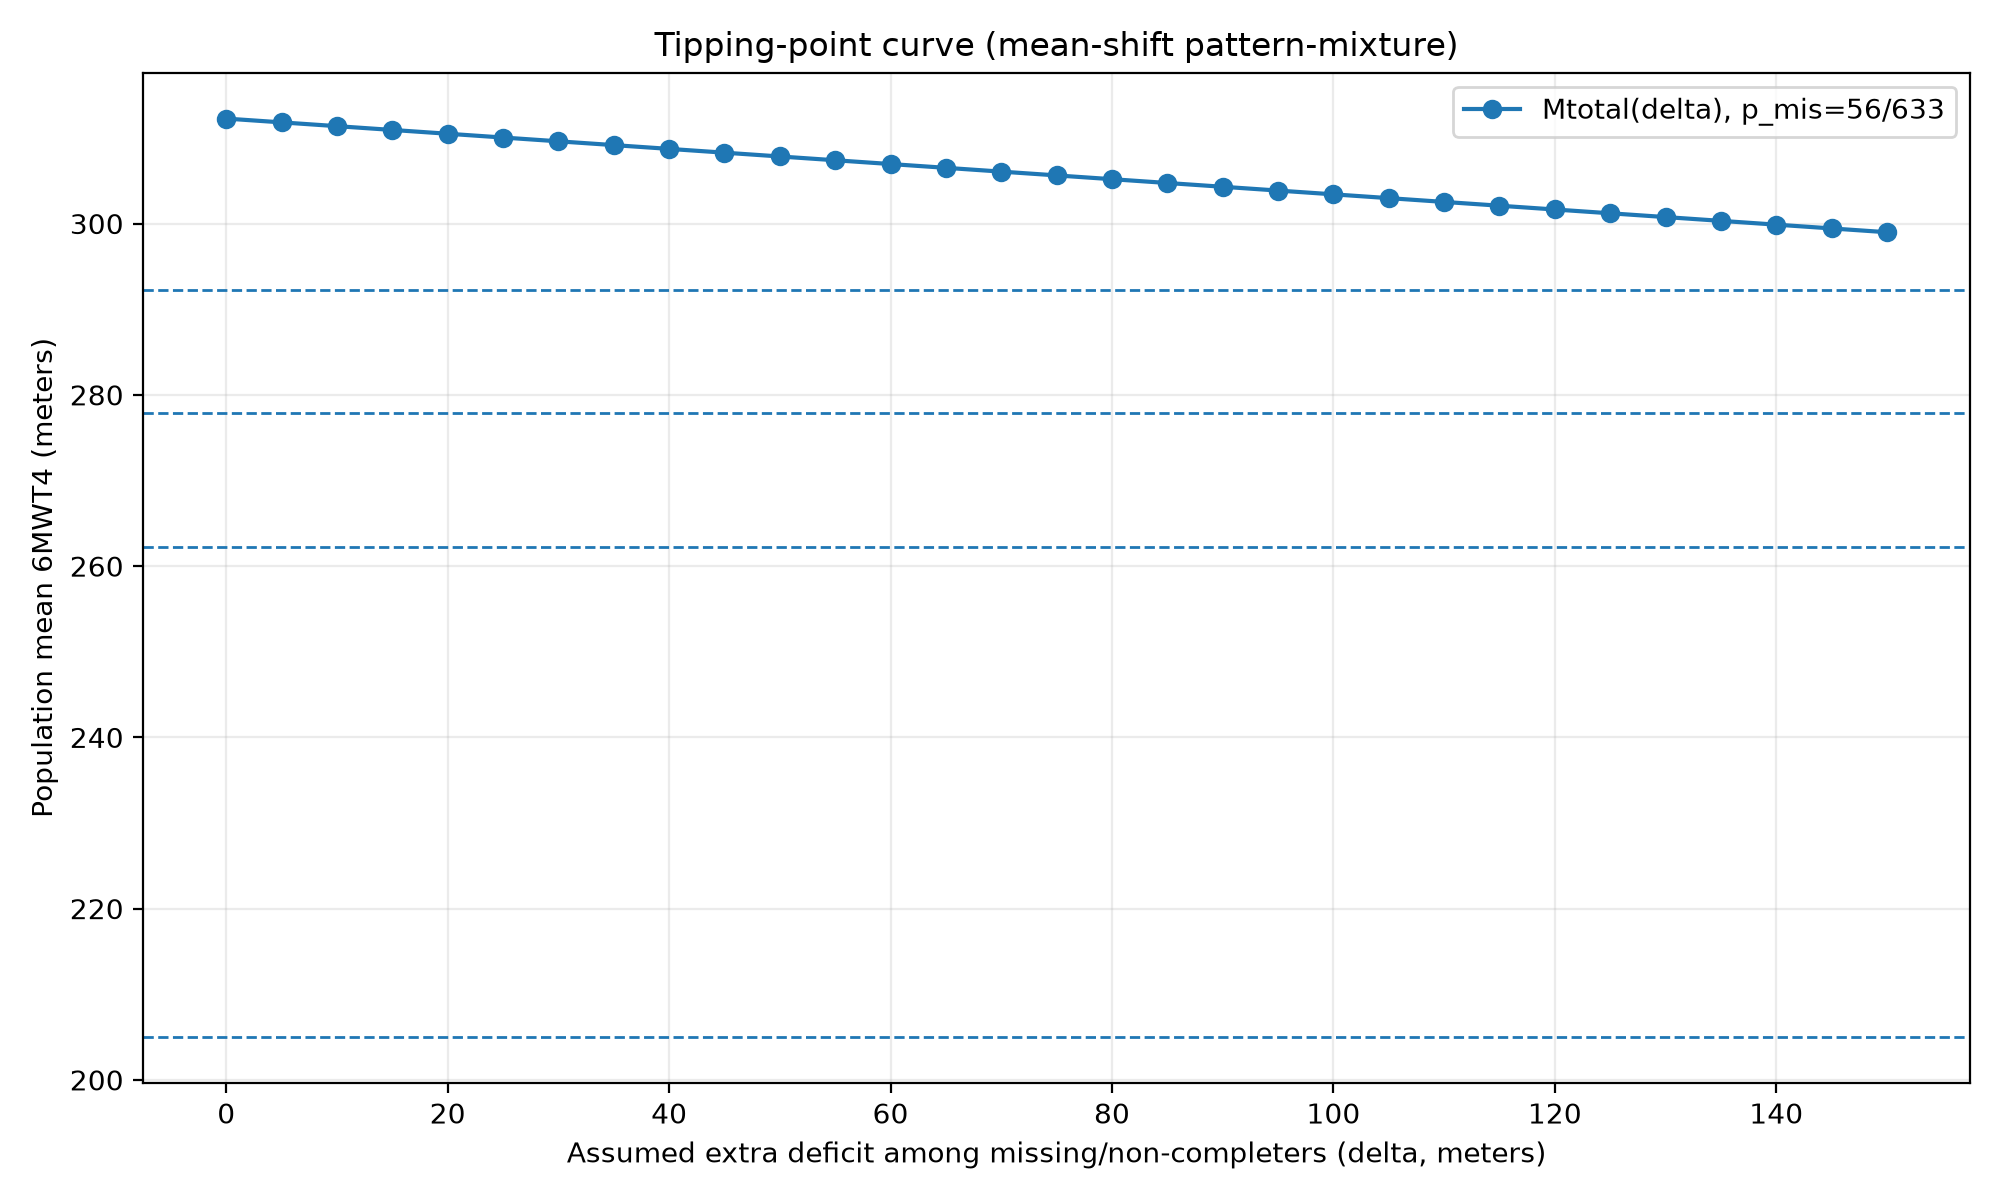
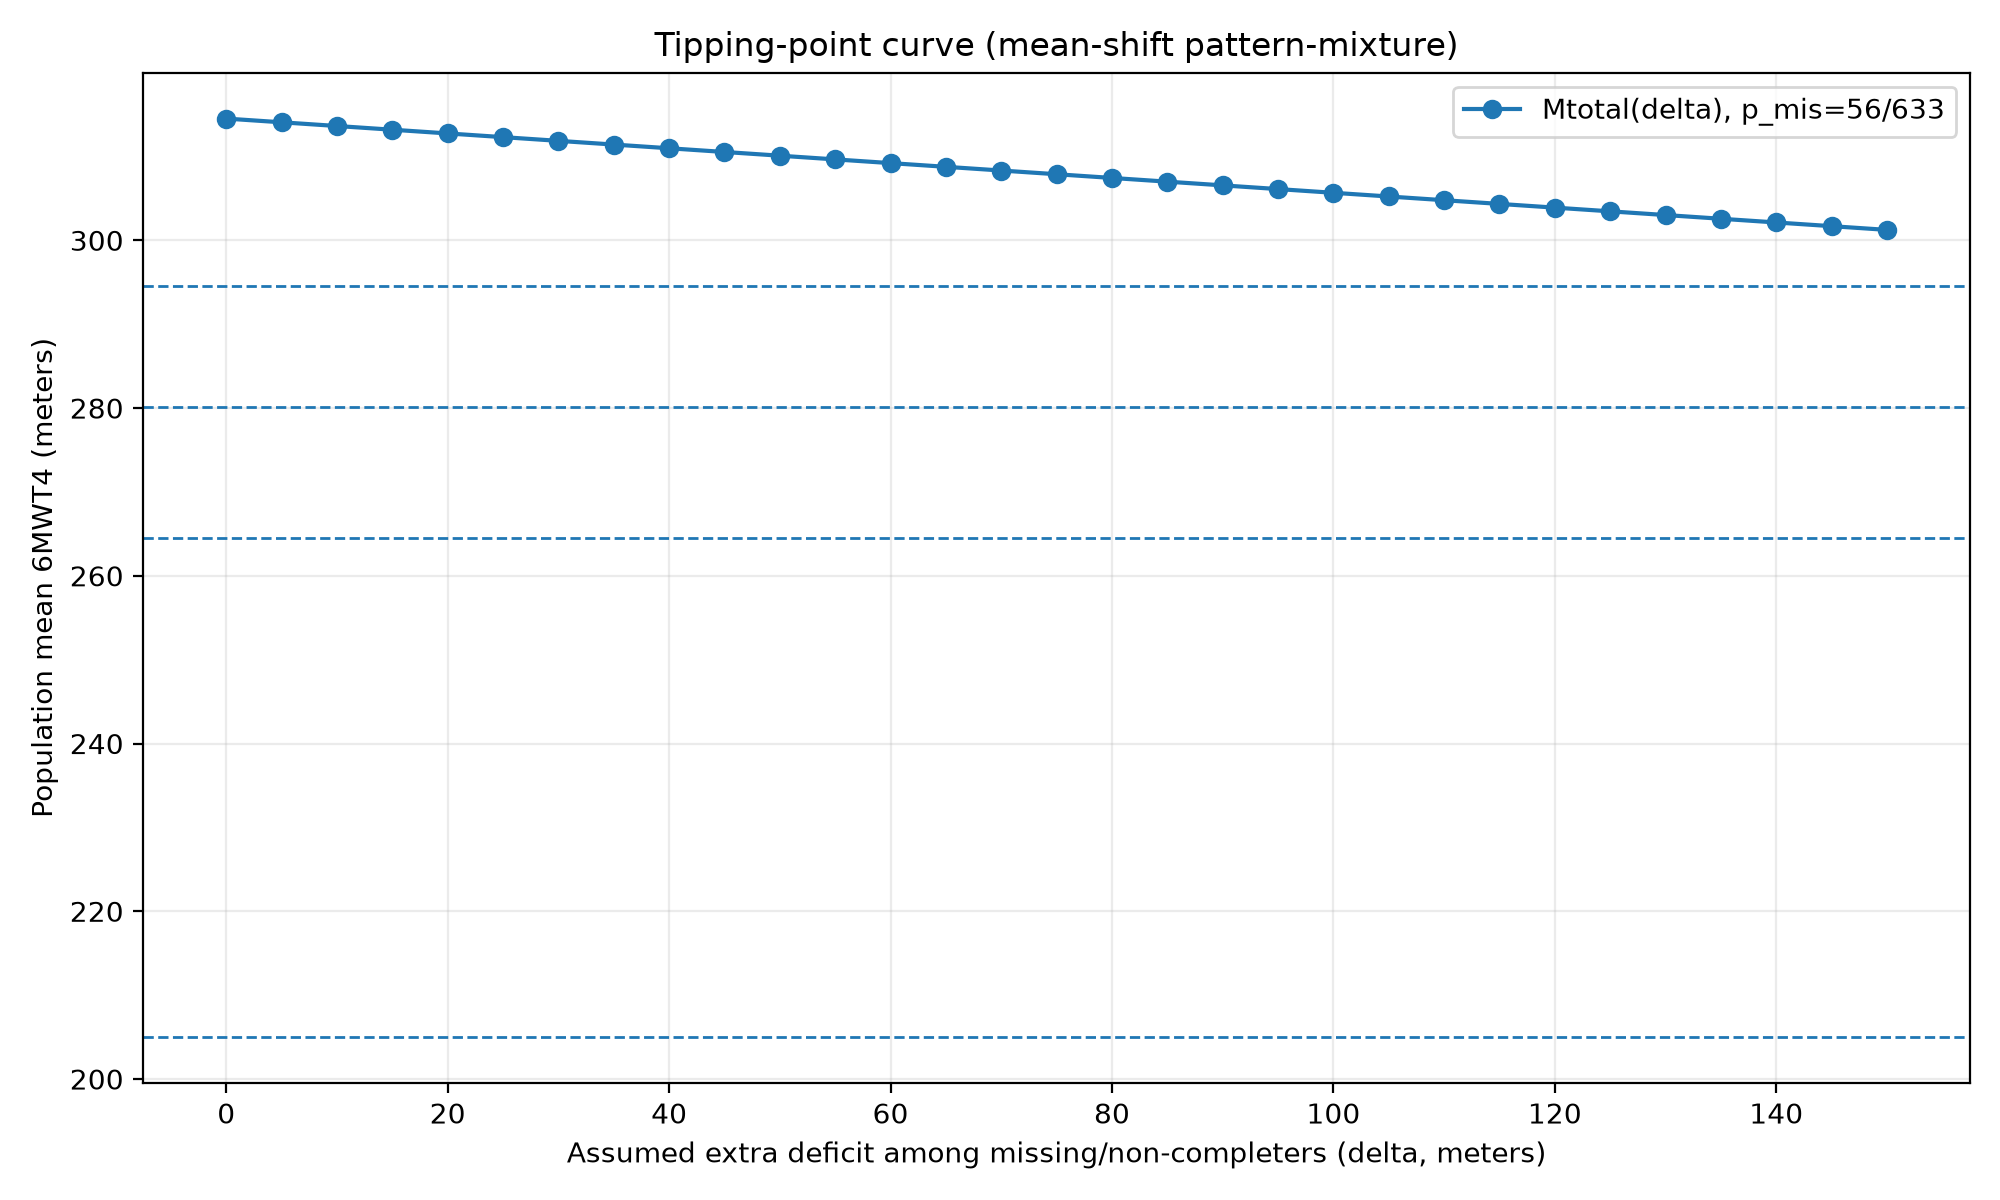
Refine Tip_Over_Analysis outputs and review fixes

diff --git a/Tip_Over_Analysis.py b/Tip_Over_Analysis.py
@@ -60,10 +60,15 @@ def load_or_build_artifacts(xlsx_path: Path) -> tuple[pd.DataFrame, list[str]]:
 
     df = pd.read_excel(xlsx_path)
     df["outcome_6mwt4"] = pd.to_numeric(df.get("6MWT4", df.get("6mwt4", np.nan)), errors="coerce")
-    df["completer"] = (df["PAC_Program_Completion"] == "Completed PAC program").astype(int)
+    completion_status = df["PAC_Program_Completion"]
+    df["completer"] = np.where(
+        completion_status == "Completed PAC program",
+        1.0,
+        np.where(completion_status == "Did not complete PAC program", 0.0, np.nan),
+    )
     covars = get_covariates(df)
 
-    mask_all = df["completer"].notna()
+    mask_all = completion_status.notna()
     X_all = df.loc[mask_all, covars]
     y_comp = df.loc[mask_all, "completer"].astype(int).to_numpy()
 
@@ -74,6 +79,9 @@ def load_or_build_artifacts(xlsx_path: Path) -> tuple[pd.DataFrame, list[str]]:
     ])
     denom_model.fit(X_all, y_comp)
     p_denom = np.clip(denom_model.predict_proba(X_all)[:, 1], 1e-4, 1 - 1e-4)
+
+    if "Age" not in X_all.columns:
+        raise KeyError("Required covariate 'Age' not found for numerator IPCW model.")
 
     numer_model = Pipeline([
         ("imp", SimpleImputer(strategy="median")),
@@ -124,7 +132,7 @@ def main() -> None:
     df, covars = load_or_build_artifacts(xlsx_path)
 
     n_total = len(df)
-    n_completers = int(df["completer"].sum())
+    n_completers = int((df["completer"] == 1).sum())
     n_non_completers = int((df["completer"] == 0).sum())
     n_observed_all = int(df["outcome_6mwt4"].notna().sum())
     n_observed_completers = int(((df["completer"] == 1) & df["outcome_6mwt4"].notna()).sum())
@@ -145,17 +153,20 @@ def main() -> None:
     mar_pred_missing = base_model.predict(X_missing)
 
     m_obs = float(np.average(y_train, weights=w_train))
-    m_mis_0 = float(np.mean(mar_pred_missing))
+    m_mis_0_all = float(np.mean(mar_pred_missing))
+    miss_noncomp_mask = miss_mask & (df["completer"] == 0)
+    X_missing_noncomp = pd.DataFrame(imp.transform(df.loc[miss_noncomp_mask, covars]), columns=covars)
+    m_mis_0_noncomp = float(np.mean(base_model.predict(X_missing_noncomp)))
 
     p_mis_noncomp = n_non_completers / n_total
     p_mis_all_missing = float(miss_mask.mean())
 
     deltas = np.arange(0, 151, 5)
 
-    m_total_noncomp = tipping_point(deltas, m_obs, m_mis_0, p_mis_noncomp)
-    m_total_all_missing = tipping_point(deltas, m_obs, m_mis_0, p_mis_all_missing)
+    m_total_noncomp = tipping_point(deltas, m_obs, m_mis_0_noncomp, p_mis_noncomp)
+    m_total_all_missing = tipping_point(deltas, m_obs, m_mis_0_all, p_mis_all_missing)
 
-    mar_population_mean_noncomp = tipping_point(np.array([0.0]), m_obs, m_mis_0, p_mis_noncomp)[0]
+    mar_population_mean_noncomp = tipping_point(np.array([0.0]), m_obs, m_mis_0_noncomp, p_mis_noncomp)[0]
     thresholds = [
         ("MCID_-20m", mar_population_mean_noncomp - 20.0),
         ("MCID_-34.4m", mar_population_mean_noncomp - 34.4),
@@ -169,6 +180,7 @@ def main() -> None:
             ("pmis_noncompleters_56_633", p_mis_noncomp),
             ("pmis_all_missing", p_mis_all_missing),
         ]:
+            m_mis_0 = m_mis_0_noncomp if scenario_name == "pmis_noncompleters_56_633" else m_mis_0_all
             delta_tip = (((1 - p_mis) * m_obs) + (p_mis * m_mis_0) - t) / p_mis
             tip_rows.append(
                 {
@@ -187,7 +199,7 @@ def main() -> None:
     ax.plot(deltas, m_total_noncomp, marker="o", label="Mtotal(delta), p_mis=56/633")
     for name, t in thresholds:
         ax.axhline(y=t, linestyle="--", linewidth=1)
-        delta_cross = (((1 - p_mis_noncomp) * m_obs) + (p_mis_noncomp * m_mis_0) - t) / p_mis_noncomp
+        delta_cross = (((1 - p_mis_noncomp) * m_obs) + (p_mis_noncomp * m_mis_0_noncomp) - t) / p_mis_noncomp
         if 0 <= delta_cross <= 150:
             ax.scatter([delta_cross], [t], s=40)
             ax.text(delta_cross + 1, t + 1, f"{name}: Δ={delta_cross:.1f}", fontsize=8)
@@ -215,6 +227,7 @@ def main() -> None:
         imputed_outcomes.append(x_full["outcome_6mwt4"].to_numpy())
 
     x_model = pd.DataFrame(imp.transform(df[covars]), columns=covars)
+    noncomp_idx = (df["completer"] == 0).to_numpy()
 
     mi_rows = []
     for delta in deltas:
@@ -226,11 +239,10 @@ def main() -> None:
 
             model_mi = Ridge(alpha=1.0)
             model_mi.fit(x_model, y_shift)
-            y_hat = model_mi.predict(x_model)
-
-            q_m = float(np.mean(y_hat))
-            resid = y_shift - y_hat
-            u_m = float(np.var(resid, ddof=1) / len(y_shift))
+            pred_noncomp = model_mi.predict(x_model.loc[noncomp_idx])
+            m_noncomp_m = float(np.mean(pred_noncomp))
+            q_m = float((1 - p_mis_noncomp) * m_obs + p_mis_noncomp * m_noncomp_m)
+            u_m = float(np.var(pred_noncomp, ddof=1) / max(pred_noncomp.shape[0], 1))
             q_vals.append(q_m)
             u_vals.append(u_m)
 
@@ -255,7 +267,8 @@ def main() -> None:
         {"metric": "N_observed_6MWT4_all", "value": n_observed_all},
         {"metric": "N_observed_6MWT4_completers", "value": n_observed_completers},
         {"metric": "M_obs_weighted", "value": m_obs},
-        {"metric": "M_mis0_MAR_predicted", "value": m_mis_0},
+        {"metric": "M_mis0_MAR_predicted_all_missing", "value": m_mis_0_all},
+        {"metric": "M_mis0_MAR_predicted_noncompleters", "value": m_mis_0_noncomp},
         {"metric": "p_mis_noncompleters", "value": p_mis_noncomp},
         {"metric": "p_mis_all_missing", "value": p_mis_all_missing},
     ])
@@ -271,6 +284,7 @@ def main() -> None:
     # Step 9 summary markdown
     community_row = tip_df[(tip_df["scenario"] == "pmis_noncompleters_56_633") & (tip_df["threshold"] == "Community_ambulation_205m")]
     x_value = float(community_row.iloc[0]["delta_tip_m"]) if not community_row.empty else float("nan")
+    n_missing_total = int(miss_mask.sum())
 
     md_lines = [
         "# Tip-Over (Tipping-Point) Analysis Summary",
@@ -284,12 +298,13 @@ def main() -> None:
         "",
         "## Base MAR model quantities",
         f"- Weighted mean observed 6MWT4 among completers (M_obs): **{m_obs:.3f} m**",
-        f"- Mean MAR-imputed 6MWT4 among missing outcomes (M_mis_0): **{m_mis_0:.3f} m**",
+        f"- Mean MAR-imputed 6MWT4 among missing outcomes (M_mis_0, all missing): **{m_mis_0_all:.3f} m**",
+        f"- Mean MAR-imputed 6MWT4 among non-completer missing outcomes (M_mis_0, non-completers): **{m_mis_0_noncomp:.3f} m**",
         "",
         "## Delta-tip tables",
         "See `Tip_Over_Analysis_delta_tip_table.csv` for side-by-side results for:",
-        "- p_mis = 56/633 (non-completers only)",
-        "- p_mis = 122/633 equivalent to all missing-outcome fraction in this dataset",
+        f"- p_mis = {n_non_completers}/{n_total} (non-completers only)",
+        f"- p_mis = {n_missing_total}/{n_total} equivalent to all missing-outcome fraction in this dataset",
         "",
         "## Mean-shift vs full pattern-mixture MI",
         "See `Tip_Over_Analysis_results.csv` for delta-grid comparisons and discrepancy flags (`>5m`).",
@@ -305,7 +320,7 @@ def main() -> None:
 
     print("Tip-over analysis complete.")
     print(f"N={n_total}, completers={n_completers}, non-completers={n_non_completers}, observed-outcome={n_observed_completers}")
-    print(f"M_obs={m_obs:.3f}, M_mis_0={m_mis_0:.3f}")
+    print(f"M_obs={m_obs:.3f}, M_mis_0_all={m_mis_0_all:.3f}, M_mis_0_noncomp={m_mis_0_noncomp:.3f}")
     print(f"Saved: {counts_path.name}, {tip_path.name}, {compare_path.name}, tipping_point_curve.png, Tip_Over_Analysis_summary.md")
 
 

diff --git a/Tip_Over_Analysis_summary.md b/Tip_Over_Analysis_summary.md
@@ -9,7 +9,8 @@
 
 ## Base MAR model quantities
 - Weighted mean observed 6MWT4 among completers (M_obs): **319.915 m**
-- Mean MAR-imputed 6MWT4 among missing outcomes (M_mis_0): **233.396 m**
+- Mean MAR-imputed 6MWT4 among missing outcomes (M_mis_0, all missing): **233.396 m**
+- Mean MAR-imputed 6MWT4 among non-completer missing outcomes (M_mis_0, non-completers): **258.858 m**
 
 ## Delta-tip tables
 See `Tip_Over_Analysis_delta_tip_table.csv` for side-by-side results for:
@@ -23,4 +24,4 @@ See `Tip_Over_Analysis_results.csv` for delta-grid comparisons and discrepancy f
 - `tipping_point_curve.png`
 
 ## Interpretation
-The primary estimate is robust to MNAR bias unless non-completers' true 6MWT4 is on average at least **1212.4 meters** lower than their MAR-imputed value.
+The primary estimate is robust to MNAR bias unless non-completers' true 6MWT4 is on average at least **1237.9 meters** lower than their MAR-imputed value.
